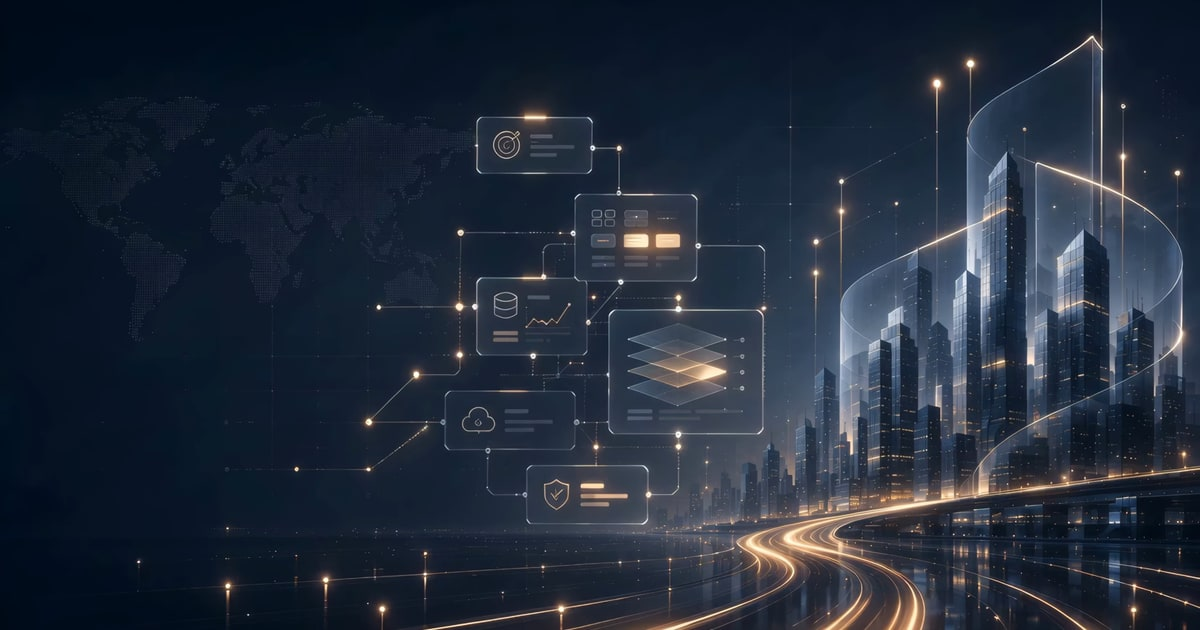
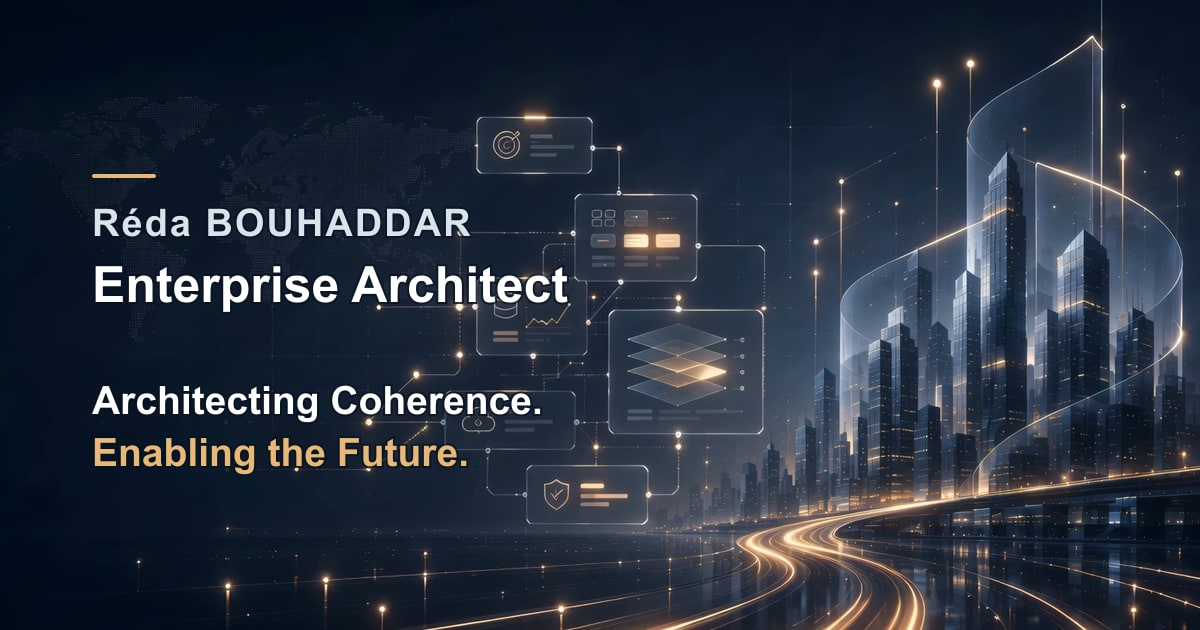
feat(performance): defer analytics and enrich social preview

diff --git a/js/redabhr.js b/js/redabhr.js
@@ -387,7 +387,7 @@
             return;
         }
 
-        loadMuxDataLibrary()
+        const initializeMonitoring = () => loadMuxDataLibrary()
             .then((mux) => {
                 if ((instance && instance !== hls) || !mux?.monitor) {
                     return;
@@ -416,6 +416,21 @@
             .catch(() => {
                 // Monitoring is optional and must never affect playback.
             });
+
+        // Mux Data is not required for the first paint or for playback. Wait
+        // until the background is actually playing, then load it off the path
+        // used to establish the video stream.
+        const scheduleMonitoring = () => {
+            window.setTimeout(() => {
+                if ('requestIdleCallback' in window) {
+                    window.requestIdleCallback(initializeMonitoring, { timeout: 5000 });
+                } else {
+                    initializeMonitoring();
+                }
+            }, 4000);
+        };
+
+        video.addEventListener('playing', scheduleMonitoring, { once: true });
     }
 
     function capHlsResolution(instance, levels) {
@@ -648,12 +663,47 @@
         }
     }
 
+    function scheduleCloudflareAnalytics() {
+        const token = currentScript?.dataset.cloudflareAnalyticsToken?.trim();
+        if (!token) {
+            return;
+        }
+
+        const injectBeacon = () => {
+            if (document.querySelector('script[data-cf-beacon]')) {
+                return;
+            }
+
+            const beacon = document.createElement('script');
+            beacon.type = 'module';
+            beacon.src = 'https://static.cloudflareinsights.com/beacon.min.js';
+            beacon.crossOrigin = 'anonymous';
+            beacon.dataset.cfBeacon = JSON.stringify({ token });
+            document.head.append(beacon);
+        };
+
+        const scheduleIdle = () => {
+            if ('requestIdleCallback' in window) {
+                window.requestIdleCallback(injectBeacon, { timeout: 3000 });
+            } else {
+                window.setTimeout(injectBeacon, 1200);
+            }
+        };
+
+        if (document.readyState === 'complete') {
+            scheduleIdle();
+        } else {
+            window.addEventListener('load', scheduleIdle, { once: true });
+        }
+    }
+
     videoToggle?.addEventListener('click', handleVideoToggle);
     updateVideoToggle();
     document.addEventListener('visibilitychange', handleVisibilityChange);
     reducedMotion.addEventListener?.('change', handlePlaybackPreferenceChange);
     portraitVideo.addEventListener?.('change', handleVariantChange);
     connection?.addEventListener?.('change', handlePlaybackPreferenceChange);
+    scheduleCloudflareAnalytics();
 
     if (document.readyState === 'complete') {
         scheduleVideo();

diff --git a/index.html b/index.html
@@ -21,7 +21,7 @@
     <meta property="og:image:type" content="image/jpeg">
     <meta property="og:image:width" content="1200">
     <meta property="og:image:height" content="630">
-    <meta property="og:image:alt" content="Enterprise architecture and technology background">
+    <meta property="og:image:alt" content="Réda BOUHADDAR, Enterprise Architect. Architecting Coherence. Enabling the Future.">
     <meta property="og:site_name" content="Réda BOUHADDAR">
     <meta property="og:locale" content="en_US">
     <meta property="profile:first_name" content="Réda">
@@ -32,7 +32,7 @@
     <meta name="twitter:description"
           content="Architecting Coherence. Enabling the Future.">
     <meta name="twitter:image" content="https://reda.bouhaddar.com/media/og-enterprise-architect.jpg">
-    <meta name="twitter:image:alt" content="Enterprise architecture and technology background">
+    <meta name="twitter:image:alt" content="Réda BOUHADDAR, Enterprise Architect. Architecting Coherence. Enabling the Future.">
     <meta name="theme-color" content="#0d1726">
 
     <link rel="icon" href="media/favicon.svg" type="image/svg+xml">
@@ -42,6 +42,7 @@
     <link rel="preload" href="fonts/rb-Light.woff2" as="font" type="font/woff2" crossorigin>
     <link rel="preload" href="fonts/rb-Regular.woff2" as="font" type="font/woff2" crossorigin>
     <title>Réda BOUHADDAR | Enterprise Architect</title>
+    <link rel="preload" href="css/redabhr.css" as="style">
     <link rel="stylesheet" href="css/redabhr.css" type="text/css" charset="utf-8"/>
     <script type="application/ld+json">
         {
@@ -221,8 +222,7 @@
 </button>
 <script src="js/redabhr.js" defer
         data-video-token-endpoint="https://reda-background-video-token.reda-background-video-token.workers.dev/token"
-        data-mux-data-env-key=""></script>
-<script type="module" src="https://static.cloudflareinsights.com/beacon.min.js" crossorigin="anonymous"
-        data-cf-beacon='{"token":"e5a3e83b104e47dd87ce7ba33991a73b"}'></script>
+        data-mux-data-env-key=""
+        data-cloudflare-analytics-token="e5a3e83b104e47dd87ce7ba33991a73b"></script>
 </body>
 </html>
